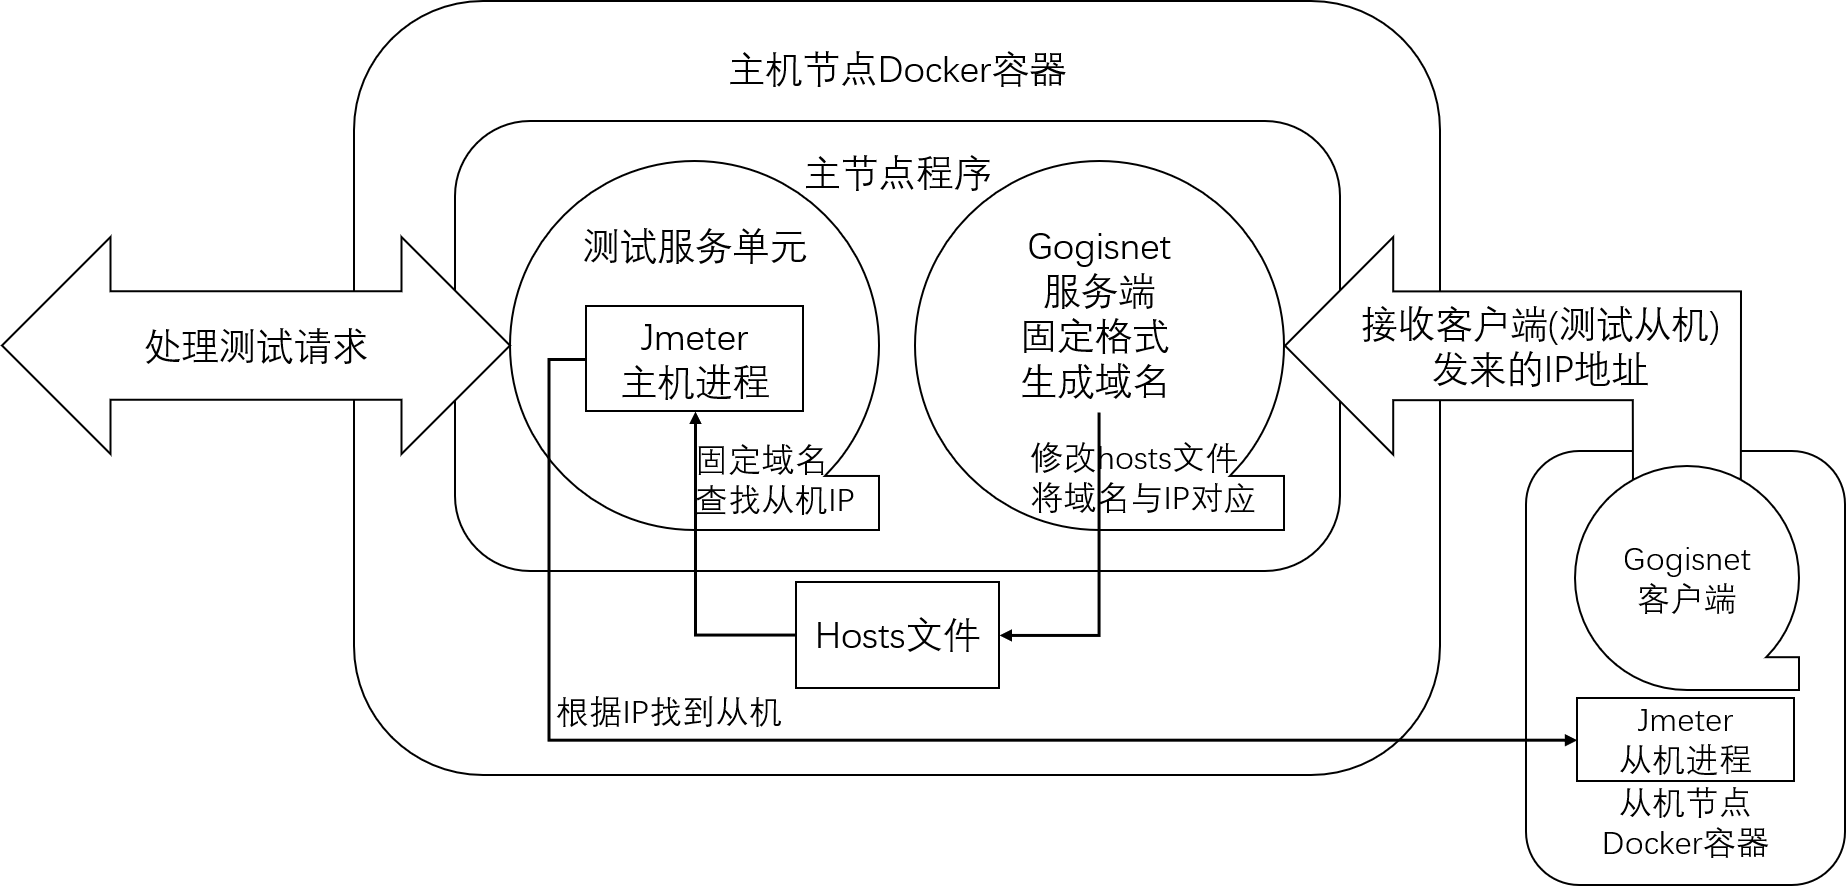
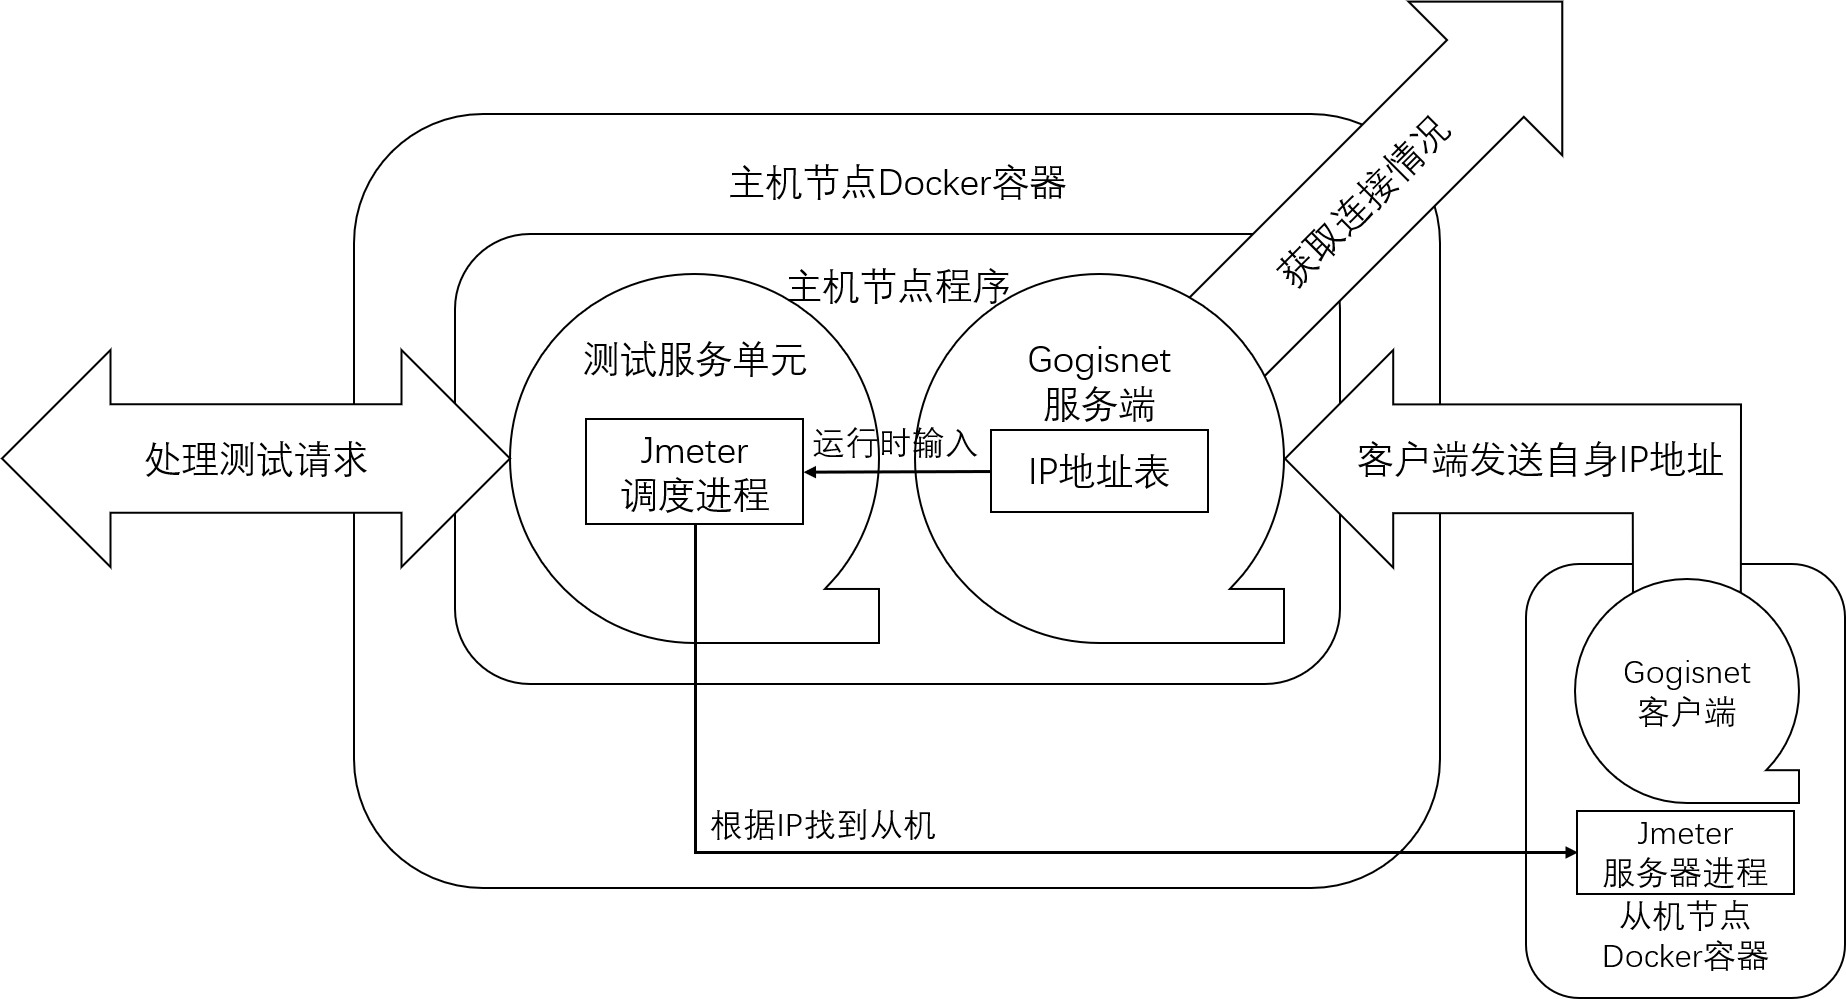
README.md updated

diff --git a/README.md b/README.md
@@ -7,7 +7,9 @@
 
 本系统是由多个主机节点和多个从机节点自组织形成的网络。每个节点都是一个Docker容器。
 
-从机节点容器中运行着一个Jmeter的从机进程和一个gogisnet客户端，该gogisnet客户端负责将自身IP地址发往一个主机，从而
+从机节点容器中运行着一个Jmeter的从机进程和一个gogisnet客户端，该gogisnet客户端会将自身容器中运行着的Jmeter服务器进程的IP地址和端口号附加在gogisnet报文中发往主机节点的gogisnet服务端，从而使得该主机节点中的测试服务单元能调用到从机中的Jmeter服务器。
+
+通过gogisnet，主机和主机之间会连成一个主机网络，且从机节点具备在某个主机失效时在网络中自行寻找新的主机进行连接的能力。
 
 ![系统结构](_/结构.png)
 
